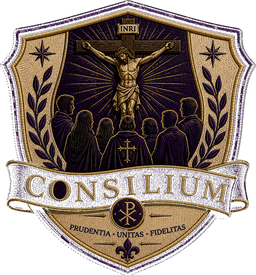
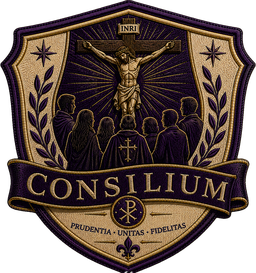
fix(casas): a faixa do brasão da Consilium estava transparente — recorte refeito
Eu subi o brasão com o limite de recorte em 40, e ele comeu a faixa inteira do CONSILIUM: o
roxo escuro da fita encosta no fundo preto, então a inundação entrou por ali. No fundo escuro
do app quase não se via; no claro virava um buraco com as letras soltas. Só apareceu quando
compus a imagem sobre magenta.

Medido em vez de chutado: o fundo tem valor 1 (mediana) e a arte escura chega a 27. Testados
os limites 6, 12 e 20 sobre magenta — 6 e 12 saem perfeitos, 20 já come a faixa. Ficou em 6,
com a suavização da borda menor (0,5 em vez de 0,8, que alargava o que era comido).

De quebra o arquivo caiu de 88 para 53 KB, mais leve que o das irmãs.

diff --git a/projetos/acolitos/sw.js b/projetos/acolitos/sw.js
@@ -1,6 +1,6 @@
 // Service worker do app Acólitos — network-first (sempre o conteúdo mais novo), cache só p/ fallback offline.
 // O fetch handler "de verdade" é o que torna o app instalável no Chrome.
-const BUILD = '20260818154519'; // carimbado a cada deploy p/ disparar a auto-atualização nos apps abertos
+const BUILD = '20260818154823'; // carimbado a cada deploy p/ disparar a auto-atualização nos apps abertos
 const CACHE = 'acolitos-' + BUILD;
 const SHELL = ['./login.html', './index.html', './shared.css', './navegacao-core.js', './shared.js', './manifest.json', './icon-192.png', './icon-512.png'];
 
